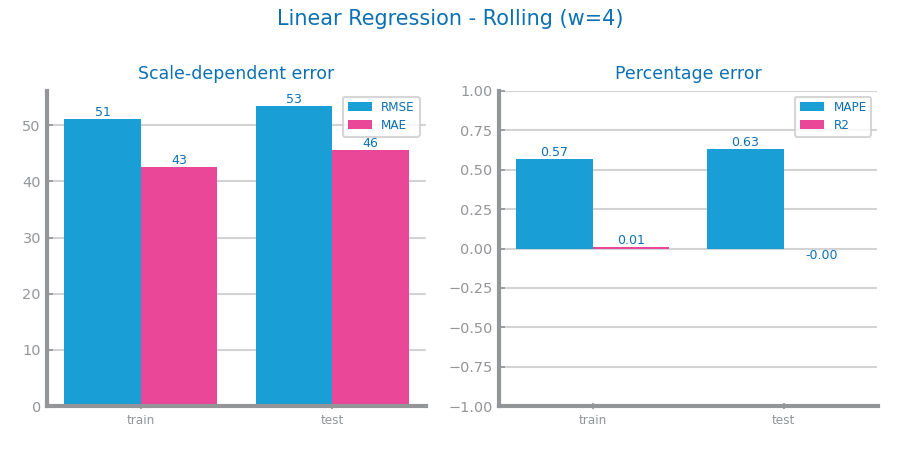
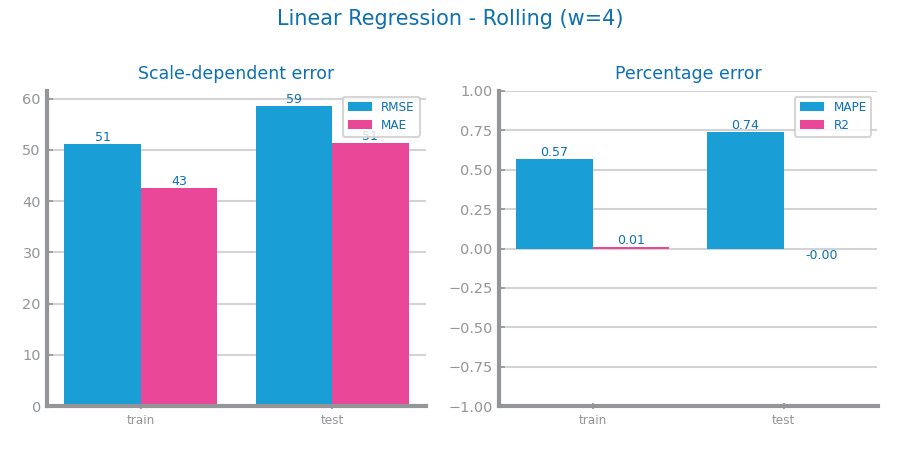
fix: smoothing should only applied to training data

diff --git a/forecasting/data_preparation/traffic/03_smoothing.py b/forecasting/data_preparation/traffic/03_smoothing.py
@@ -173,29 +173,30 @@ def main():
     # First: No smoothing (baseline)
     smoothing_configs = [("none", 0)] + [("rolling", w) for w in WIN_SIZES]
 
+    df_original = DataFrame({TARGET: series})
+    train_df_orig, test_df_orig = dataframe_temporal_train_test_split(df_original, TRAIN_PCT)
+    train_orig = train_df_orig[TARGET]
+    test_orig = test_df_orig[TARGET]
+
     for method, win in smoothing_configs:
         if method == "none":
             name = "No Smoothing"
-            series_smooth = series.copy()
+            train = train_orig.copy()
         else:
             name = f"Rolling (w={win})"
-            series_smooth = series.rolling(window=win).mean()
-            series_smooth = series_smooth.fillna(series)  # Fill NaN at start
+            # Smooth ONLY training data
+            train_smoothed = train_orig.rolling(window=win).mean()
+            train = train_smoothed.fillna(train_orig)  # Fill NaN at start
+
+        # Test data remains unsmoothed (original values)
+        test = test_orig.copy()
 
         print(f"\n{'=' * 60}")
         print(f"Smoothing: {name}")
         print("=" * 60)
 
-        # Create dataframe for train/test split
-        df_smooth = DataFrame({TARGET: series_smooth})
-
-        # Train/test split
-        train_df, test_df = dataframe_temporal_train_test_split(df_smooth, TRAIN_PCT)
-        train = train_df[TARGET]
-        test = test_df[TARGET]
-
-        print(f"Train size: {len(train)} ({TRAIN_PCT * 100:.0f}%)")
-        print(f"Test size: {len(test)} ({(1 - TRAIN_PCT) * 100:.0f}%)")
+        print(f"Train size: {len(train)} ({TRAIN_PCT * 100:.0f}%) - {'smoothed' if method != 'none' else 'original'}")
+        print(f"Test size: {len(test)} ({(1 - TRAIN_PCT) * 100:.0f}%) - original (unsmoothed)")
 
         # --- Persistence Model ---
         print("\n--- Persistence Model ---")
